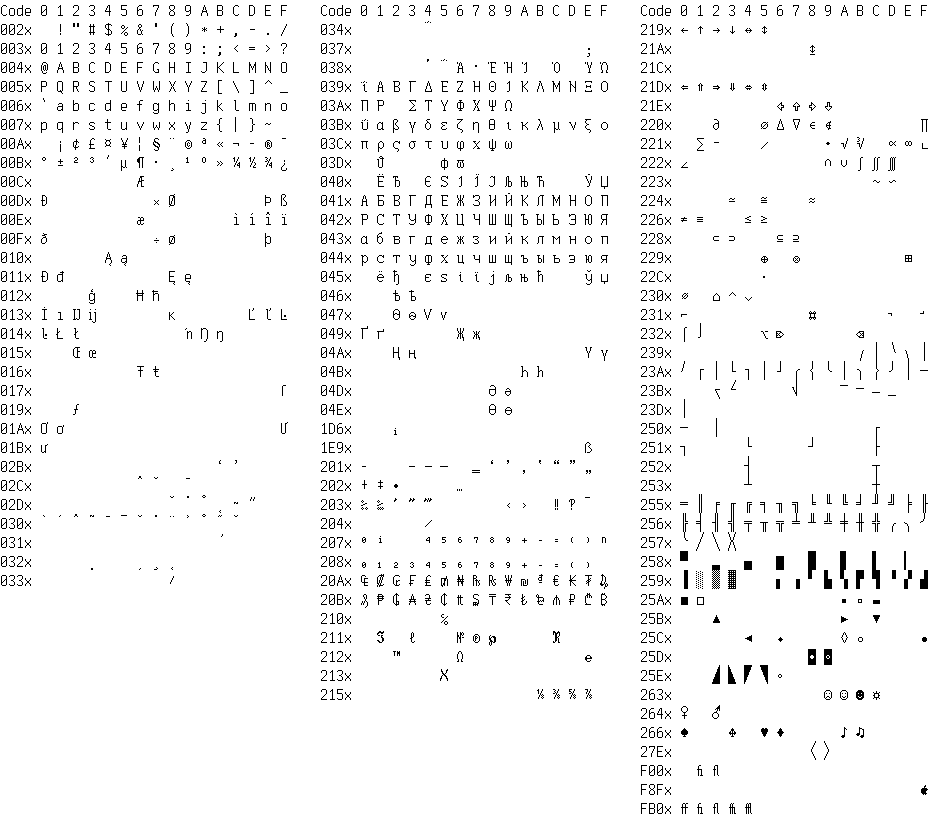
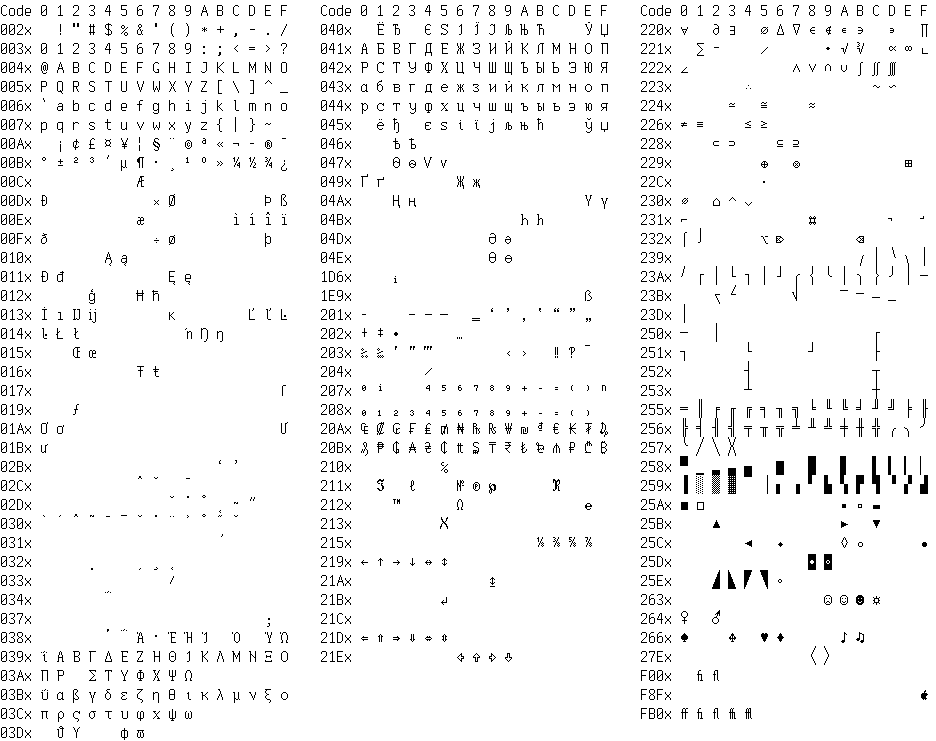
v1.4

diff --git a/export.js b/export.js
@@ -53,7 +53,7 @@ function getAsciiImage() {
 function getTableText() {
     let latestGroup = '';
     let latestPos = 0;
-    const groupCols = ['000', '034', '219'];
+    const groupCols = ['000', '040', '220'];
     const colHeader = 'Code ' + [...Array(16).keys()].map(n => toHex(n, 1)).join(' ') + ' ';
     const cols = groupCols.map(() => [colHeader])
     for (let char of chars) {
@@ -132,14 +132,13 @@ writeFileSync('./Example.png', getImage([
     'ΑαΒβΓγΔδΕεΖζΗηΘθΙιΚκΛλΜμΝνΞξΟοΠπΡρΣσςΤτΥυΦφΧχΨψΩωΆάΈέΉήΊίΪϊΐΌόΫϋΎύΰΏώ',
     'АаБбВвГгДдЕеЖжЗзИиЙйКкЛлМмНнОоПпРрСсТтУуФфХхЦцЧчШшЩщЪъЫыЬьЭэЮюЯя',
     'ЁёЂђҐґЃѓЄєЅѕІіЇїЈјЉљЊњЋћЌќЎўЏџӘәҖҗҢңӨөҮүҺһѢѣѲѳѴѵ',
-    '–—―‘’‚“”„†‡•…‰‹›⁄₫€№™Ω∂∆∏∑√∞∫∬∭≈≉≃≅≠≤≥◊\uF8FFﬁﬂ½¼¾⅛⅜⅝⅞∕⌐¬≡₣₤₧℅ℓ℮∪∩∟‗⌀∈∉∼∽',
+    '–—―‘’‚“”„†‡•…‰‹›⁄₫€№™Ω∂∆∏∑√∞∫∬∭≈≉≃≅≠≤≥◊\uF8FFﬁﬂ½¼¾⅛⅜⅝⅞∕⌐¬≡₣₤₧℅ℓ℮∟‗⌀∈∉∼∽',
     '⁰¹²³⁴⁵⁶⁷⁸⁹ⁱ⁺⁻⁼⁽⁾ⁿ₀₁₂₃₄₅₆₇₈₉ᵢ₊₋₌₍₎;‾ˉ‽℗ﬀﬁﬂﬃﬄǺǻǼǽǾǿȘșȚțẄẅẀẁẂẃẄẅỲỳẞϖℵℑℜ℘ϑϕ∝∇−',
     '☹☺☻♥♦♣♠•◘○◙♂♀♪♫☼►◄↕‼¶§▬↨↑↓→←∟↔▲▼⌂⇕⇑⇓⇒⇐⇔$£¥₡₦₩₪₫€₭₮₱₲₴₵₸₹₺₼₽₾₿₠₢₥₨₯₰₳₶₷₻',
     '⏐⎯▂▚▆▎▊▘▗▀▄▝▖║│═─◢◣◢╭─╮╔╦╗┌┬┐╒╤╕╓╥╖⎡⎧⎛ ⎞⎫⎤⌠⎧╲N╱⎲──⌝  ⎲─⌝⌫∠⌦⊗⊕∅⊂⊃⊄⊅⊆⊇√∛⟨ƒ⟩a⎺⎻⎼⎽',
-    '⌠│□▫○◦▐▬▌▛▜▞ ░░▒▒◥◤◥├─┤╠╬╣├┼┤╞╪╡╟╫╢⎢⎨⎜ ⎟⎬⎥⎮⎪W╳E⎲╲ ┌── ⟩ ',
-    '⌡⎷■▪●•∙··⋅◆▙▟▓▓██◢◣◢╰─╯╚╩╝└┴┘╘╧╛╙╨╜⎣⎩⎝ ⎠⎭⎦⌡⎨╱S╲⎳ ⟩⎷aᵢ⎳─⌟',
-    //TODO: '▔▁▏▕▍▃✓✔✕✖⚠ℹ ⇞⇟🡤🡦⤴⤵⎀⎋␣⇥↩',
-    //TODO: '↵ϒ∴∧∨∀∃∍' Mac OS Symbol/Font X/DEC Technical (TCS)
+    '⌠│□▫○◦▐▬▌▛▜▞ ░░▒▒◥◤◥├─┤╠╬╣├┼┤╞╪╡╟╫╢⎢⎨⎜ ⎟⎬⎥⎮⎪W╳E⎲╲ ┌── ⟩ ∧∨∩∪↵ϒ∴∀∃∍',
+    '⌡⎷■▪●•∙··⋅◆▙▟▓▓██◢◣◢╰─╯╚╩╝└┴┘╘╧╛╙╨╜⎣⎩⎝ ⎠⎭⎦⌡⎨╱S╲⎳ ⟩⎷aᵢ⎳─⌟▍▃▔▁▏▕',
+    //TODO: '✓✔✕✖⚠ℹ ⇞⇟🡤🡦⤴⤵⎀⎋␣⇥↩',
     '"Neutral", \'Neutral\', “English”, ‘English’, „German“, ‚German‘, «French», ‹French›',
     '―――― Em—Dash, En–Dash, z₁=10-x+y²*2π, hy‐phen‐ate, мʼята, oʻzbek, ´acute, ˝double',
     '⇧⌥⌘⊞ ⇦⇧⇨⇩⌃⌄ ƒ′, ƒ″, ¼, ½, ¾″ ‴ ÔÖŌÕ ŮÚŰÙ ŠŞŻŽŹ iìíîï ˆ ˇ ˘ ˙ ˚ ˛ ˜ ‛˝ ̀ ́ ̃ ̉ ̣ ΄ ΅ ·',

diff --git a/README.md b/README.md
@@ -11,6 +11,7 @@ The font covers the Unicode [subset](./Codescopix.png) containing Latin, Greek a
 - Central European (win1250, win1257, mac10029, mac10010, mac10082)
 - Turkish (win1254, mac10081)
 - Vietnamese (win1258)
+- Mac OS Symbol/Font X/DEC Technical Character Sets
 
 ## Features
 - **Comprehensive Character Coverage**: Supports Roman, Cyrillic, Central European, Turkish, and Vietnamese characters.
